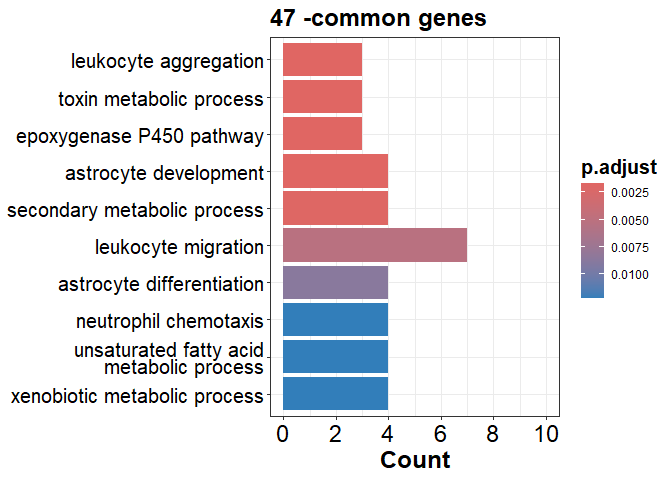
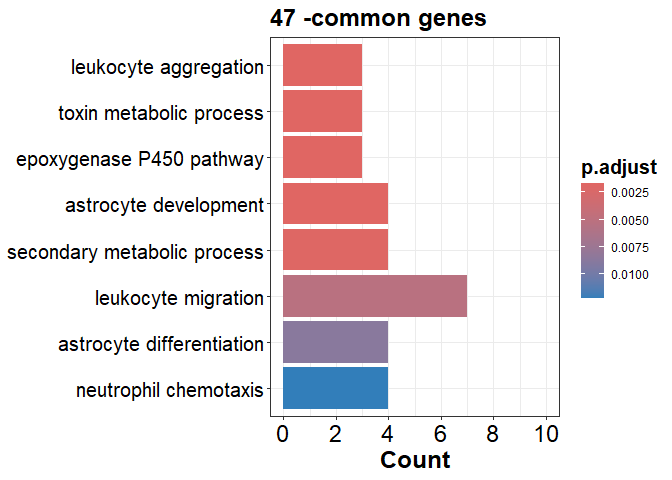
09.04.2024

diff --git a/bulk-RNAseq_data_analysis.md b/bulk-RNAseq_data_analysis.md
@@ -1,7 +1,7 @@
 bulk-RNAseq
 ================
 Arun Ghosh
-2024-05-20
+2024-09-04
 
 ``` r
 # -loading packages and data
@@ -29,8 +29,6 @@ library(enrichplot)
 library(openxlsx)
 
 counts <- read.delim("counts_7G.txt", row.names = 1) # reading in RNAseq data
-
-# output_format = 'all'
 ```
 
 ``` r
@@ -113,7 +111,6 @@ for(i in 1:length(x)){if(x[i] != "exposureCTR"){
   d4[[i]] = row.names(top.table)
   names(d4)[i] <- exposure
   rownames(top.table) <- NULL
-  #rownames(top.table) <- top.table$symbol
   top.table <- top.table [(c(7,1,2,3,4,5,6,8))]
   a4[[i]] = top.table$symbol
   names(a4)[i] <- exposure
@@ -498,7 +495,7 @@ enGOOL <- enrichGO(gene         = geneOL,
 head(enGOOL)
 
 #barplot
-barplot(enGOOL, showCategory=10, font = 18, title = "47 -common genes")+ 
+barplot(enGOOL, showCategory=8, font = 18, title = "47 -common genes")+ 
   scale_x_continuous(breaks = seq(0, 10, by = 2), limits=c(0,10))+
   theme(axis.text.y = element_text(lineheight = 0.7, size = 15),
         title = element_text(size = 15, face="bold"))
@@ -1059,7 +1056,7 @@ names(b4) <- str_replace_all(names(b4), c(CBF= "Cardboard Flaming",
                                           PLS= "Plastic Smoldering",
                                           PWF= "Plywood Flaming",
                                           PWS= "Plywood Smoldering"))
-
+b4 <- b4 %>% lapply(arrange, direction)
 blank_excel <- createWorkbook()
 
 Map(function(df, tab_name){     
